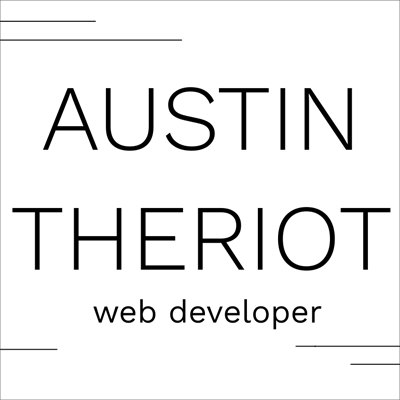
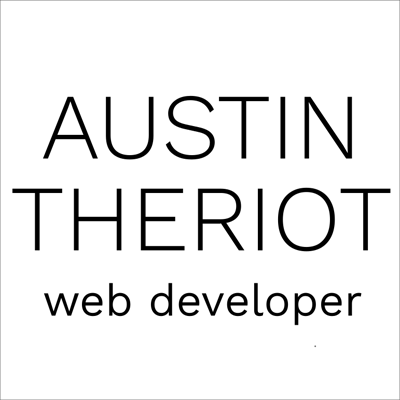
adjusted spacing of twitter:image thumbnail

diff --git a/public/index.html b/public/index.html
@@ -32,7 +32,7 @@
 		/>
 		<meta
 			name="twitter:image"
-			content="https://i.postimg.cc/s2LbzJHK/twitter-image.png"
+			content="https://i.postimg.cc/q722BJjY/twitter-image.png"
 		/>
 		<meta name="twitter:card" content="summary" />
 		<meta name="twitter:image:alt" content="Austin Theriot: Web Developer" />
